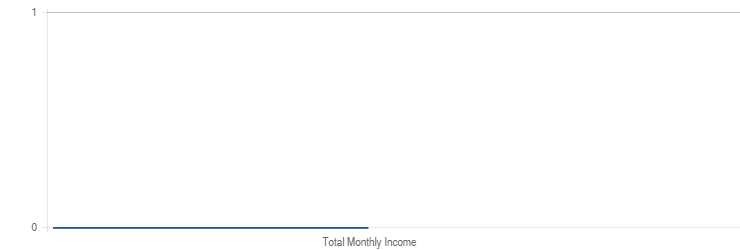
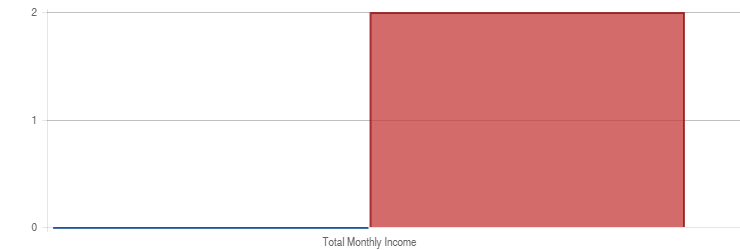
New Update(s)

diff --git a/admin/assets/js/script.js b/admin/assets/js/script.js
@@ -267,6 +267,35 @@ function fillTable($file, $search) {
 
                                 return false;
                             });
+
+                            $('#btnSaveDeliveryLocation').click(function() {
+                                $.ajax({
+                                    url: 'requests/modify_delivery_location.php',
+                                    method: 'POST',
+                                    data: {
+                                        waybill: $('#waybill-number').text(),
+                                        location: $('#delivery-location-input-field').val()
+                                    },
+                                    success: function(response) {
+                                        $('#modal').modal('hide');
+
+                                        showLoader('prompt');
+                                        $('#prompt').modal({
+                                            backdrop: 'static'
+                                        });
+                                        $('#prompt .modal-title').html('<h3 class="no-margin">Prompt</h3>');
+                                        $('#prompt .modal-body').html(response);
+
+                                        setTimeout(function() {
+                                            $('#prompt').modal('hide');
+
+                                            location.reload();
+                                        }, 2000);
+                                    }
+                                });
+
+                                return false;
+                            });
                         }
                     });
 

diff --git a/admin/requests/modify_transactions.php b/admin/requests/modify_transactions.php
@@ -54,7 +54,7 @@
             echo '<tbody>';
             echo '<tr>';
             echo '<td width="30%" align="right">Waybill Number:</td>';
-            echo '<td><a class="copy-to-clipboard" data-clipboard-text="' . $row['Waybill_Number'] . '" title="Click to copy">' . $row['Waybill_Number'] . '</a></td>';
+            echo '<td><a id="waybill-number" class="copy-to-clipboard" data-clipboard-text="' . $row['Waybill_Number'] . '" title="Click to copy">' . $row['Waybill_Number'] . '</a></td>';
             echo '</tr>';
             echo '<tr>';
             echo '<td align="right">Description:</td>';
@@ -75,6 +75,10 @@
             echo '<tr>';
             echo '<td align="right">Debit:</td>';
             echo '<td>&#8369; ' . $row['Debit'] . '</td>';
+            echo '</tr>';
+            echo '<tr>';
+            echo '<td align="right">Delivery Location:</td>';
+            echo '<td><div class="form-group"><input id="delivery-location-input-field" class="form-control" type="text" value="' . $row['Delivery_Location'] . '"><div style="margin-top: 5px;" class="pull-right"><button id="btnSaveDeliveryLocation" class="btn btn-primary">Save</button></div></div></td>';
             echo '</tr>';
             echo '</tbody>';
             echo '</table>';
@@ -176,7 +180,7 @@
                 echo '<table id="bill-of-lading-table" class="table table-hover table-striped">';
                 echo '<thead>';
                 echo '<tr class="bg-dark">';
-                echo '<th width="25%">Mark</th>';
+                echo '<th width="25%">Product/Item Name</th>';
                 echo '<th width="25%">Quantity</th>';
                 echo '<th width="75%">Item Description</th>';
                 echo '</tr>';
@@ -494,9 +498,9 @@
             if($input >= $min && $input <= $max) {
                 echo 'In Range';
             } else {
-                if($input <= $min) {
+                if($input < $min) {
                     echo 'Lower';
-                } else {
+                } else if($input > $max) {
                     echo 'Higher';
                 }
             }

diff --git a/admin/requests/modify_ladings.php b/admin/requests/modify_ladings.php
@@ -58,7 +58,7 @@
         echo '<table id="bill-of-lading-table" class="table table-hover table-striped">';
         echo '<thead>';
         echo '<tr class="bg-dark">';
-        echo '<th width="25%">Mark</th>';
+        echo '<th width="25%">Product/Item Name</th>';
         echo '<th width="25%">Quantity</th>';
         echo '<th width="75%">Item Description</th>';
         echo '</tr>';
@@ -151,7 +151,7 @@
             echo '<table id="bill-of-lading-table" class="table table-hover table-striped">';
             echo '<thead>';
             echo '<tr class="bg-dark">';
-            echo '<th width="25%">Mark</th>';
+            echo '<th width="25%">Product/Item Name</th>';
             echo '<th width="25%">Quantity</th>';
             echo '<th width="75%">Item Description</th>';
             echo '</tr>';
@@ -172,9 +172,9 @@
             echo '</form>';
         }
     } else if($action == 'Add') {
-        $mark = [""];
-        $quantity = [""];
-        $description = [""];
+        $mark = array('');
+        $quantity = array('');
+        $description = array('');
         $loopCount = 0;
 
         $billNumber = mysqli_real_escape_string($connection, $_POST['billNumber']);
@@ -241,9 +241,9 @@
             echo 'Bill of Lading already exist.';
         }
     } else if($action == 'Save') {
-        $mark = [""];
-        $quantity = [""];
-        $description = [""];
+        $mark = array('');
+        $quantity = array('');
+        $description = array('');
         $loopCount = 0;
 
         $billId = mysqli_real_escape_string($connection, $_POST['billId']);

diff --git a/admin/requests/track_delivery.php b/admin/requests/track_delivery.php
@@ -201,7 +201,7 @@
                 echo '<table class="table table-hover table-striped">';
                 echo '<thead class="bg-dark">';
                 echo '<tr>';
-                echo '<th width="25%">Mark</th>';
+                echo '<th width="25%">Product/Item Name</th>';
                 echo '<th width="25%">Quantity</th>';
                 echo '<th width="75%">Item Description</th>';
                 echo '</tr>';

diff --git a/admin/requests/generate_chart.php b/admin/requests/generate_chart.php
@@ -102,7 +102,7 @@
             $totalDebits += (double) $row['Debit'];
         }
 
-        echo '{"total_credits": "' . json_encode($totalCredits) . '", "total_debits": ' . json_encode($totalDebits) . '}';
+        echo '{"total_credits": "' . json_encode($totalCredits) . '", "total_debits": "' . json_encode($totalDebits) . '"}';
     }
 
     mysqli_close($connection);

diff --git a/admin/requests/modify_cheque.php b/admin/requests/modify_cheque.php
@@ -1,9 +1,9 @@
 <?php
     require('connection.php');
 
-    $chequeNumber = [""];
-    $bankName = [""];
-    $chequeDate = [""];
+    $chequeNumber = array('');
+    $bankName = array('');
+    $chequeDate = array('');
     $loopCount = 0;
 
     $waybillNumber = mysqli_real_escape_string($connection, $_POST['waybillNumber']);

diff --git a/admin/requests/modify_pending.php b/admin/requests/modify_pending.php
@@ -87,7 +87,7 @@
     } else if($action == 'Comply All') {
         $truckId = mysqli_real_escape_string($connection, $_POST['truckId']);
         $waybillNumbers = $_POST['waybillNumbers'];
-        $failedWaybillMails = [];
+        $failedWaybillMails = array();
         $ctr = 0;
 
         array_shift($waybillNumbers);

diff --git a/admin/requests/modify_bill_of_lading.php b/admin/requests/modify_bill_of_lading.php
@@ -1,9 +1,9 @@
 <?php
     require('connection.php');
 
-    $mark = [""];
-    $quantity = [""];
-    $description = [""];
+    $mark = array('');
+    $quantity = array('');
+    $description = array('');
     $loopCount = 0;
 
     $waybillNumber = mysqli_real_escape_string($connection, $_POST['waybillNumber']);
